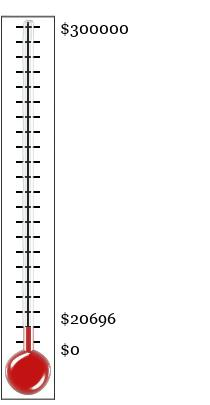
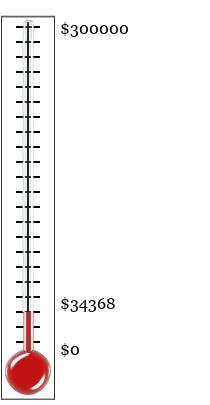
Fundraising update for may 2020, Genua gmbh goes bronze

Changed region(s): [[0.2857, 0.7111, 0.5714, 0.8], [0.0857, 0.7704, 0.1714, 0.8296]]

diff --git a/contributors.html b/contributors.html
@@ -119,8 +119,9 @@ $5000 or more, and display your logo for donations of $10,000 or more.
 <LI><A HREF=donations.html>Total from smaller donors</A>
 </UL>
 <LI> Bronze: $5,000 to $10,000
-<UL>
-</UL>
+  <UL>
+    <LI><A HREF=http://www.genua.de>genua gmbh</A>
+  </UL>
 </UL>
 
 <HR>
